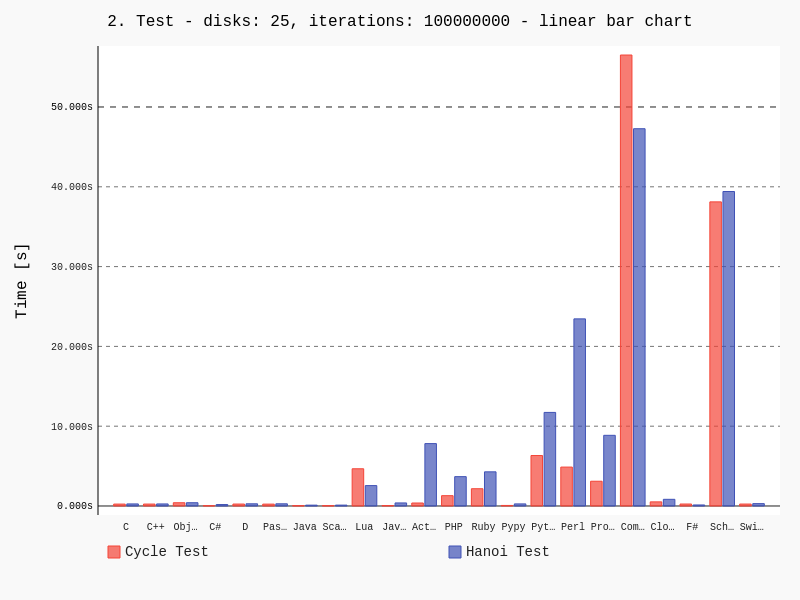
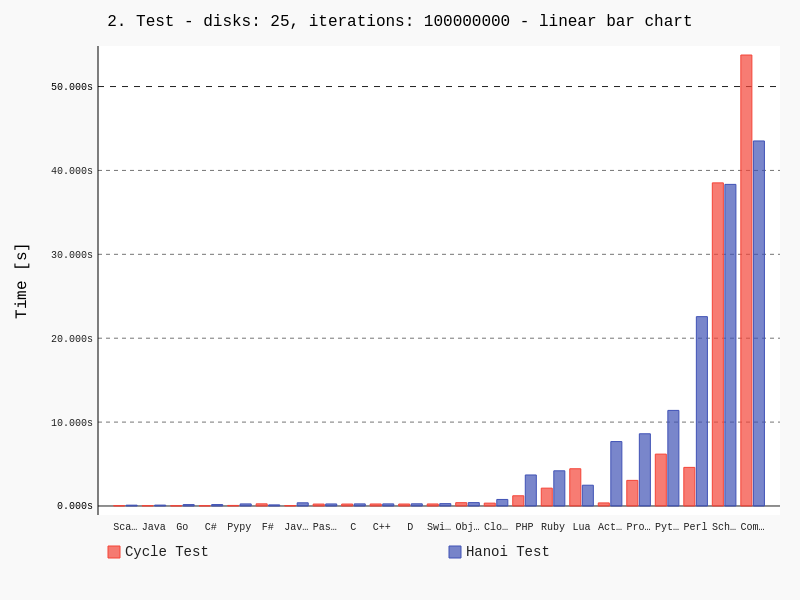
Updated graphs

diff --git a/sources/swift_test.swift b/sources/swift_test.swift
@@ -6,7 +6,7 @@ func getTime(value: Double, round: Int) -> String {
     fmt.minimumFractionDigits = round
     fmt.minimumIntegerDigits = 1
 
-    return fmt.stringFromNumber(NSNumber(double: NSDate().timeIntervalSince1970 - value))!
+    return fmt.stringFromNumber(NSNumber(value: NSDate().timeIntervalSince1970 - value))!
 }
 
 func hanoi(n: Int, start: Int, end: Int,  sticks: Int) -> Void {

diff --git a/evaluator/evaluator.py b/evaluator/evaluator.py
@@ -138,6 +138,12 @@ class Evaluator(object):
                 print(lang.compile())
         print('')
 
+    def compare_time_result(value):
+        if value[-1]:
+            return value[-1]['avg_cycle'] + value[-1]['avg_hanoi']
+        else:
+            return value[0]
+
     @classmethod
     def test_languages(cls, languages, tests, average=1, timeout=None):
         """ Evaluates languages. """
@@ -156,22 +162,33 @@ class Evaluator(object):
             results.append({'disks': test[0], 'sticks': test[1],
                             'iters': test[2], 'results': []})
 
+            skips = []
             for lang in languages:
                 if lang.is_skipped():
-                    results[-1]['results'].append((lang.name, {}))
+                    skips.append((lang.name, {}))
+                    # results[-1]['results'].append((lang.name, {}))
                 elif lang.is_available():
                     output = []
                     for _ in range(average):
                         output.append(lang.evaluate(params, timeout))
                         if output[-1] is None:
-                            results[-1]['results'].append((lang.name, {}))
+                            # results[-1]['results'].append((lang.name, {}))
+                            skips.append((lang.name, {}))
                             lang.skip = True
                             print(bad_output % lang.name)
                             break
                     else:
                         print(cls._format_output(output,
                                                  results[-1]['results']))
+
+            results[-1]['results'] = sorted(
+                results[-1]['results'],
+                key=lambda x: x[-1]['avg_cycle'] + x[-1]['avg_hanoi']
+            )
+
+            results[-1]['results'] += skips
             print('')
+
         return results
 
     @classmethod

diff --git a/README.md b/README.md
@@ -85,7 +85,7 @@ repository which is well suitable for maintaining fresh versions of languages.
 
 | Info |  |
 | :-----: | :-----: |
-| Operating System | Linux-4.5.1-1-ARCH-x86_64-with-arch |
+| Operating System | Linux-4.5.4-1-ARCH-x86_64-with-arch |
 | Processor | Intel(R) Core(TM) i5-4200M CPU @ 2.50GHz |
 | Total memory | 3.864GB |
 
@@ -93,23 +93,23 @@ repository which is well suitable for maintaining fresh versions of languages.
 
 | Language | Available Version |
 | :-----: | :-----: |
-| C | cc (GCC) 5.3.0 |
-| C++ | Copyright (C) 2015 Free Software Foundation, Inc. |
-| Objective-C | Copyright (C) 2015 Free Software Foundation, Inc. |
+| C | cc (GCC) 6.1.1 20160501 |
+| C++ | Copyright (C) 2016 Free Software Foundation, Inc. |
+| Objective-C | Copyright (C) 2016 Free Software Foundation, Inc. |
 | C# | Mono C# compiler version 4.4.0.0 |
 | D | DMD64 D Compiler v2.071.0 |
 | Pascal | Free Pascal Compiler version 3.0.0 [2015/11/26] for x86_64 |
 | Java | javac 1.8.0_92 |
 | Scala | Scala code runner version 2.11.8 -- Copyright 2002-2016, LAMP/EPFL |
 | Lua | Lua 5.3.2  Copyright (C) 1994-2015 Lua.org, PUC-Rio |
-| JavaScript (node.js) | v6.0.0 |
+| JavaScript (node.js) | v6.2.1 |
 | ActionScript3 | shell 2.1 release build cyclone |
-| Go | Not available |
-| PHP | PHP 7.0.6 (cli) (built |  Apr 27 2016 19 | 14 | 24) ( NTS ) |
-| Ruby | ruby 2.3.0p0 (2015-12-25 revision 53290) [x86_64-linux] |
-| Pypy | PyPy 5.1.0 with GCC 5.3.0 |
+| Go | go version go1.6.2 linux/amd64 |
+| PHP | PHP 7.0.7 (cli) (built |  May 25 2016 18 | 40 | 26) ( NTS ) |
+| Ruby | ruby 2.3.1p112 (2016-04-26 revision 54768) [x86_64-linux] |
+| Pypy | PyPy 5.1.1 with GCC 6.1.1 20160501 |
 | Python | Python 3.5.1 |
-| Perl | This is perl 5, version 22, subversion 1 (v5.22.1) built for x86_64-linux-thread-multi |
+| Perl | This is perl 5, version 22, subversion 2 (v5.22.2) built for x86_64-linux-thread-multi |
 | Bash | GNU bash, version 4.3.42(1)-release (x86_64-unknown-linux-gnu) |
 | Prolog | SWI-Prolog version 7.2.3 for x86_64-linux |
 | Erlang | Erlang (SMP,ASYNC_THREADS,HIPE) (BEAM) emulator version 7.3.1 |
@@ -118,7 +118,7 @@ repository which is well suitable for maintaining fresh versions of languages.
 | F# | F# Compiler for F# 4.0 (Open Source Edition) |
 | Haskell | The Glorious Glasgow Haskell Compilation System, version 7.10.3 |
 | Scheme | MIT/GNU Scheme microcode 15.3 |
-| Swift | Swift version 3.0-dev (LLVM 752e1430fc, Clang 1e6cba3ce3, Swift 56052cfe61) |
+| Swift | Swift version 3.0-dev (LLVM 8fcf602916, Clang cf0a734990, Swift 000d413a62) |
 
 ### Performance Tests
 
@@ -130,31 +130,32 @@ to construct tables and graphs.
     
 | Lang | Avg. cycles | Std. cycles | Avg. hanoi | Std. hanoi |
 | :-----: | :-----: | :-----: | :-----: | :-----: |
-| C | 0.023s | 3.37% | 0.008s | 0.00% |
-| C++ | 0.024s | 0.00% | 0.008s | 0.00% |
-| Objective-C | 0.039s | 1.62% | 0.012s | 7.45% |
-| C# | 0.003s | 21.08% | 0.005s | 0.00% |
-| D | 0.023s | 2.75% | 0.008s | 0.00% |
-| Pascal | 0.022s | 3.52% | 0.008s | 5.59% |
-| Java | 0.005s | 8.94% | 0.004s | 0.00% |
-| Scala | 0.007s | 27.85% | 0.011s | 59.75% |
-| Lua | 0.453s | 3.51% | 0.080s | 3.31% |
-| JavaScript | 0.005s | 12.65% | 0.012s | 6.45% |
-| ActionScript3 | 0.036s | 1.76% | 0.239s | 1.44% |
-| PHP | 0.125s | 6.18% | 0.110s | 0.57% |
-| Ruby | 0.211s | 0.56% | 0.130s | 1.85% |
-| Pypy | 0.007s | 0.00% | 0.040s | 2.96% |
-| Python | 0.607s | 0.29% | 0.353s | 1.04% |
-| Perl | 0.477s | 3.44% | 0.691s | 0.82% |
-| Bash | 69.918s | 1.12% | 36.853s | 1.27% |
-| Prolog | 0.304s | 2.99% | 0.258s | 1.59% |
-| Erlang | 11.822s | 0.92% | 11.830s | 0.86% |
-| Common Lisp | 5.245s | 0.64% | 1.339s | 0.40% |
-| Clojure | 0.081s | 9.66% | 0.087s | 18.08% |
+| C# | 0.003s | 33.33% | 0.005s | 0.00% |
+| Java | 0.005s | 12.65% | 0.003s | 29.81% |
+| Go | 0.003s | 33.33% | 0.006s | 14.91% |
+| Scala | 0.009s | 69.39% | 0.008s | 30.62% |
+| JavaScript | 0.005s | 17.89% | 0.012s | 9.13% |
 | F# | 0.023s | 3.89% | 0.004s | 0.00% |
-| Haskell | 6.584s | 1.98% | 1.738s | 6.69% |
-| Scheme | 3.754s | 2.17% | 1.253s | 9.92% |
-| Swift | 0.023s | 2.75% | 0.008s | 5.59% |
+| Pascal | 0.022s | 4.98% | 0.007s | 12.78% |
+| D | 0.023s | 0.00% | 0.007s | 11.07% |
+| C | 0.023s | 2.75% | 0.008s | 0.00% |
+| C++ | 0.024s | 1.86% | 0.008s | 0.00% |
+| Swift | 0.024s | 9.86% | 0.008s | 7.91% |
+| Objective-C | 0.039s | 1.62% | 0.012s | 6.45% |
+| Pypy | 0.007s | 12.78% | 0.051s | 15.16% |
+| Clojure | 0.069s | 7.19% | 0.079s | 14.31% |
+| PHP | 0.137s | 13.15% | 0.123s | 3.65% |
+| ActionScript3 | 0.041s | 6.07% | 0.298s | 12.80% |
+| Ruby | 0.215s | 0.88% | 0.140s | 7.78% |
+| Lua | 0.468s | 5.45% | 0.082s | 3.45% |
+| Prolog | 0.301s | 0.83% | 0.258s | 1.52% |
+| Python | 0.738s | 12.98% | 0.452s | 12.97% |
+| Perl | 0.516s | 5.16% | 0.824s | 7.07% |
+| Scheme | 3.567s | 0.78% | 1.121s | 0.39% |
+| Common Lisp | 5.090s | 0.37% | 1.303s | 0.56% |
+| Haskell | 6.274s | 2.19% | 1.611s | 1.79% |
+| Erlang | 11.336s | 0.59% | 11.102s | 0.25% |
+| Bash | 71.177s | 3.85% | 36.944s | 3.22% |
 
 ![Bar graph results 1](results/bar_graph1.png)
 
@@ -164,31 +165,32 @@ to construct tables and graphs.
     
 | Lang | Avg. cycles | Std. cycles | Avg. hanoi | Std. hanoi |
 | :-----: | :-----: | :-----: | :-----: | :-----: |
-| C | 0.237s | 3.37% | 0.258s | 2.47% |
-| C++ | 0.239s | 1.39% | 0.256s | 1.61% |
-| Objective-C | 0.405s | 3.02% | 0.408s | 2.75% |
-| C# | 0.036s | 6.33% | 0.179s | 11.09% |
-| D | 0.242s | 5.10% | 0.273s | 4.90% |
-| Pascal | 0.233s | 2.05% | 0.273s | 14.57% |
-| Java | 0.039s | 12.67% | 0.104s | 0.86% |
-| Scala | 0.042s | 21.05% | 0.109s | 20.57% |
-| Lua | 4.663s | 6.23% | 2.553s | 1.09% |
-| JavaScript | 0.051s | 5.75% | 0.381s | 2.88% |
-| ActionScript3 | 0.373s | 2.00% | 7.817s | 0.69% |
-| PHP | 1.290s | 5.26% | 3.676s | 0.40% |
-| Ruby | 2.162s | 0.57% | 4.279s | 0.48% |
-| Pypy | 0.067s | 0.67% | 0.259s | 4.38% |
-| Python | 6.321s | 1.06% | 11.726s | 1.10% |
-| Perl | 4.874s | 2.02% | 23.449s | 3.12% |
+| Scala | 0.037s | 3.20% | 0.097s | 5.98% |
+| Java | 0.041s | 6.17% | 0.105s | 0.95% |
+| Go | 0.034s | 2.28% | 0.167s | 0.54% |
+| C# | 0.035s | 6.52% | 0.168s | 1.16% |
+| Pypy | 0.066s | 0.68% | 0.246s | 2.49% |
+| F# | 0.255s | 6.51% | 0.131s | 7.98% |
+| JavaScript | 0.050s | 3.69% | 0.379s | 0.50% |
+| Pascal | 0.230s | 0.39% | 0.242s | 0.67% |
+| C | 0.232s | 0.55% | 0.250s | 0.62% |
+| C++ | 0.238s | 1.11% | 0.250s | 0.59% |
+| D | 0.234s | 0.38% | 0.259s | 0.42% |
+| Swift | 0.241s | 5.37% | 0.279s | 6.19% |
+| Objective-C | 0.393s | 0.23% | 0.401s | 0.88% |
+| Clojure | 0.339s | 35.63% | 0.779s | 33.08% |
+| PHP | 1.216s | 0.65% | 3.696s | 1.28% |
+| Ruby | 2.125s | 0.45% | 4.193s | 0.74% |
+| Lua | 4.437s | 4.33% | 2.476s | 2.37% |
+| ActionScript3 | 0.366s | 0.73% | 7.679s | 1.55% |
+| Prolog | 3.051s | 1.61% | 8.607s | 0.31% |
+| Python | 6.182s | 0.75% | 11.394s | 1.16% |
+| Perl | 4.602s | 0.61% | 22.569s | 0.33% |
+| Scheme | 38.516s | 3.59% | 38.337s | 1.28% |
+| Common Lisp | 53.757s | 1.88% | 43.513s | 1.92% |
 | Bash | Dead | Dead | Dead | Dead |
-| Prolog | 3.100s | 1.58% | 8.854s | 0.75% |
 | Erlang | Dead | Dead | Dead | Dead |
-| Common Lisp | 56.513s | 3.82% | 47.276s | 3.81% |
-| Clojure | 0.516s | 4.20% | 0.834s | 10.43% |
-| F# | 0.245s | 10.34% | 0.127s | 14.20% |
 | Haskell | Dead | Dead | Dead | Dead |
-| Scheme | 38.110s | 1.83% | 39.408s | 5.48% |
-| Swift | 0.242s | 9.39% | 0.295s | 9.10% |
 
 ![Bar graph results 2](results/bar_graph2.png)
 
@@ -198,31 +200,32 @@ to construct tables and graphs.
     
 | Lang | Avg. cycles | Std. cycles | Avg. hanoi | Std. hanoi |
 | :-----: | :-----: | :-----: | :-----: | :-----: |
-| C | 2.417s | 0.43% | 8.515s | 0.58% |
-| C++ | 2.470s | 0.89% | 8.346s | 1.01% |
-| Objective-C | 4.047s | 0.32% | 13.642s | 1.37% |
-| C# | 0.363s | 7.05% | 5.922s | 3.16% |
-| D | 2.451s | 0.37% | 8.623s | 0.87% |
-| Pascal | 2.423s | 1.84% | 8.302s | 2.97% |
-| Java | 0.368s | 3.51% | 3.116s | 4.42% |
-| Scala | 0.386s | 7.60% | 3.115s | 4.79% |
+| Scala | 0.455s | 17.25% | 4.290s | 18.25% |
+| Java | 0.490s | 10.01% | 4.689s | 15.53% |
+| C# | 0.334s | 3.06% | 5.776s | 6.83% |
+| Go | 0.357s | 1.46% | 5.958s | 0.70% |
+| F# | 2.634s | 3.76% | 4.459s | 4.78% |
+| Pascal | 2.352s | 2.39% | 8.204s | 5.01% |
+| C | 2.377s | 2.64% | 8.473s | 4.10% |
+| C++ | 2.432s | 1.87% | 8.472s | 4.12% |
+| D | 2.427s | 2.24% | 8.600s | 2.32% |
+| Swift | 2.428s | 1.29% | 9.850s | 5.16% |
+| JavaScript | 0.546s | 1.75% | 13.225s | 1.33% |
+| Objective-C | 4.018s | 2.34% | 13.214s | 2.65% |
+| Pypy | 0.698s | 2.69% | 18.794s | 10.12% |
+| Clojure | 4.410s | 39.09% | 30.696s | 24.79% |
 | Lua | Dead | Dead | Dead | Dead |
-| JavaScript | 0.529s | 2.47% | 12.686s | 1.19% |
 | ActionScript3 | Dead | Dead | Dead | Dead |
 | PHP | Dead | Dead | Dead | Dead |
 | Ruby | Dead | Dead | Dead | Dead |
-| Pypy | 0.699s | 2.63% | 17.428s | 8.40% |
 | Python | Dead | Dead | Dead | Dead |
 | Perl | Dead | Dead | Dead | Dead |
 | Bash | Dead | Dead | Dead | Dead |
 | Prolog | Dead | Dead | Dead | Dead |
 | Erlang | Dead | Dead | Dead | Dead |
 | Common Lisp | Dead | Dead | Dead | Dead |
-| Clojure | 3.684s | 37.55% | 31.387s | 42.02% |
-| F# | 2.405s | 1.34% | 3.992s | 3.41% |
 | Haskell | Dead | Dead | Dead | Dead |
 | Scheme | Dead | Dead | Dead | Dead |
-| Swift | 2.384s | 1.09% | 9.159s | 2.48% |
 
 ![Bar graph results 3](results/bar_graph3.png)
 
@@ -232,20 +235,23 @@ to construct tables and graphs.
     
 | Lang | Avg. cycles | Std. cycles | Avg. hanoi | Std. hanoi |
 | :-----: | :-----: | :-----: | :-----: | :-----: |
-| C | 5.162s | 1.80% | 33.340s | 1.25% |
-| C++ | 5.264s | 1.77% | 33.666s | 2.30% |
-| Objective-C | 8.634s | 0.25% | 52.900s | 0.45% |
-| C# | 0.723s | 1.63% | 22.250s | 0.47% |
-| D | 5.191s | 0.13% | 33.853s | 0.35% |
-| Pascal | 5.096s | 0.41% | 32.315s | 0.45% |
-| Java | 0.804s | 6.80% | 11.835s | 1.14% |
-| Scala | 0.755s | 2.12% | 11.678s | 1.05% |
+| Scala | 0.783s | 4.30% | 13.863s | 9.66% |
+| Java | 0.834s | 2.59% | 14.179s | 3.56% |
+| F# | 5.206s | 2.53% | 16.583s | 5.85% |
+| C# | 0.710s | 0.44% | 21.859s | 3.22% |
+| Go | 0.761s | 3.68% | 24.921s | 2.65% |
+| C++ | 5.346s | 0.87% | 35.498s | 2.65% |
+| D | 5.400s | 1.64% | 35.456s | 3.64% |
+| Pascal | 5.329s | 1.03% | 36.235s | 2.40% |
+| C | 5.275s | 0.82% | 36.312s | 2.69% |
+| Swift | 5.177s | 4.57% | 37.737s | 4.17% |
+| JavaScript | 1.203s | 6.14% | 55.168s | 5.43% |
+| Pypy | 1.484s | 5.09% | 62.439s | 12.42% |
+| Objective-C | 8.734s | 0.66% | 58.495s | 2.22% |
 | Lua | Dead | Dead | Dead | Dead |
-| JavaScript | 1.184s | 14.48% | 50.665s | 3.86% |
 | ActionScript3 | Dead | Dead | Dead | Dead |
 | PHP | Dead | Dead | Dead | Dead |
 | Ruby | Dead | Dead | Dead | Dead |
-| Pypy | 1.501s | 3.38% | 52.912s | 1.63% |
 | Python | Dead | Dead | Dead | Dead |
 | Perl | Dead | Dead | Dead | Dead |
 | Bash | Dead | Dead | Dead | Dead |
@@ -253,10 +259,8 @@ to construct tables and graphs.
 | Erlang | Dead | Dead | Dead | Dead |
 | Common Lisp | Dead | Dead | Dead | Dead |
 | Clojure | Dead | Dead | Dead | Dead |
-| F# | 5.200s | 0.73% | 15.846s | 1.49% |
 | Haskell | Dead | Dead | Dead | Dead |
 | Scheme | Dead | Dead | Dead | Dead |
-| Swift | 5.366s | 4.06% | 43.269s | 12.13% |
 
 ![Bar graph results 4](results/bar_graph4.png)
 
